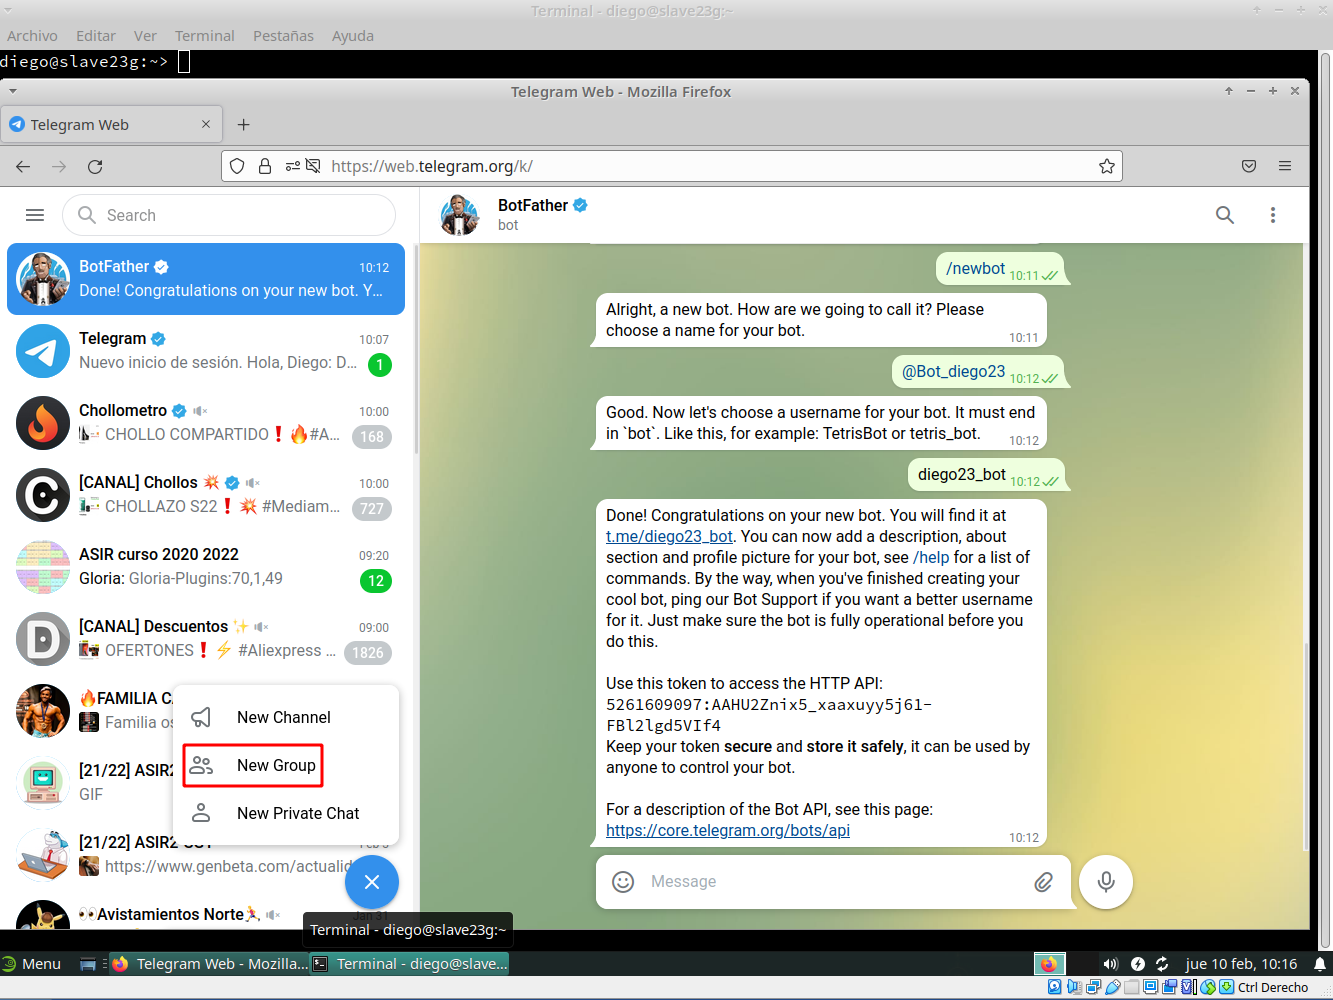
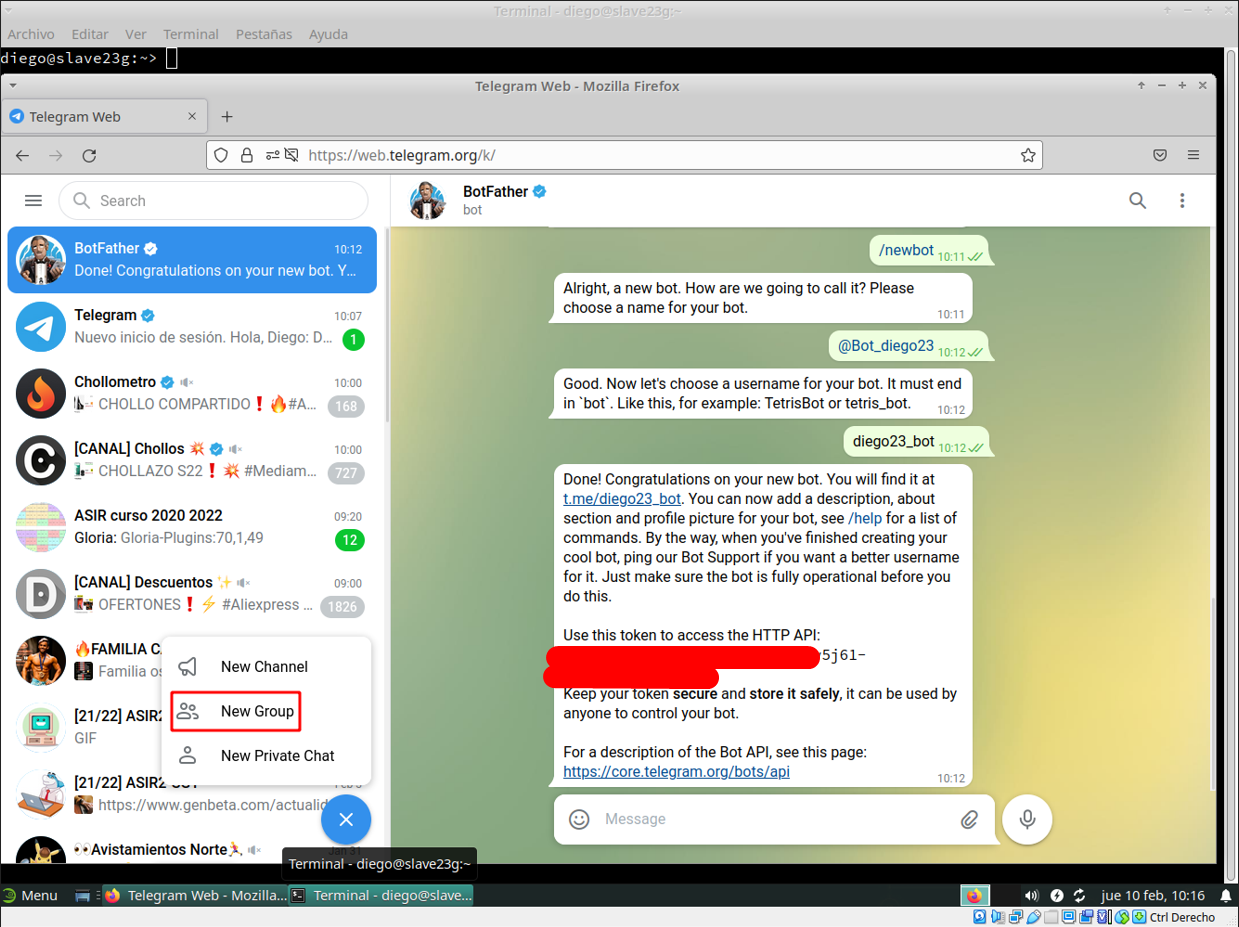
U

diff --git a/u6/telegram-bot/README.md b/u6/telegram-bot/README.md
@@ -1,0 +1,121 @@
+# **Servicio de comunicaciones con Telegram (bot-service)**
+
+***Nombre:*** Diego Peraza Cabo
+<br>
+***Curso:*** 2º ASIR
+
+## **Índice** <a id="0"></a>
+
++ [1. Crear un bot de Telegram con Ruby](#1)
+  + [1.1 Crar bot con BotFather](#1.1)
+  + [1.2 Crear un programa de Ruby](#1.2)
+  + [1.3 Entrega](#1.3)
++ [2. Sytemd](#2)
+  + [2.1 Crear un servicio](#2.1)
+  + [2.2 Iniciar y activar eñ servicio](#2.2)
+  + [2.3 Parar el proceso](#2.3)
+  + [2.4 Entrega](#2.4)
++ [3. Programar tareas](#3)
+  + [3.1 Controlador](#3.1)
+  + [3.2 Tareas programadas](#3.2)
+  + [3.3 Entrega](#3.3)
+
+### **1. Crear un bot de Telegram con Ruby** <a id="1"></a>
+
+### **1.1 Crar bot con BotFather** <a id="1.1"></a>
+
+- Iniciamos telegram y buscamos el usuario `@BotFather`, también empezaremos la conversación y con la creación de nuestro bot con la orden `/newbot`.
+
+  ![](img/1.png)
+
+  ![](img/2.png)
+
+  ![](img/3.png)
+
+  ![](img/4.png)
+
+- Ponemos como nombre del Bot `@Bot_diego23` y del nombre de usuario `diego23_bot`. Apuntamos los siguientes datos para usarlos más adelante:
+
+  - Bot URL
+  - TOKEN (HTTP API)
+
+    ![](img/5.png)
+
+- Ahora vamos a crear un grupo de Telegram y añadimos al bot creado anteriormente. Para crear el grupo tendremos que dirigirnos a la parte inferior izquierda y darle click a `Lapiz -> New Group`.
+
+  ![](img/6.png)
+
+  ![](img/7.png)
+
+- Buscamos nuestro bot y lo añadimos al grupo.
+
+  ![](img/10.png)
+
+- De nombre del grupo podremos ponerlo como queramos, pero en mi caso puse `bot-service`.
+
+  ![](img/11.png)
+
+- Una vez hecho todo lo anterior le damos a la flecha de abajo izquierda y ya tendriamos creado el grupo con neustro bot.
+
+  ![](img/12.png)
+
+### **1.2 Crear un programa de Ruby** <a id="1.2"></a>
+
+- Instalamos la gema de ruby que permite comunicarse con Telegram.
+
+  ![](img/13.png)
+
+- Vemos que nos ha dado un error en la instalación de la gema anterior, para solucionarlo nos instalamos la siguiente gema.
+
+  ![](img/14.png)
+
+- Una vez solucionado el problema, volvemos a instalarnos la gema `telegram-bot-ruby`.
+
+  ![](img/15.png)
+
+- Creamos el directorio `telegram` en nuestra carpeta `/home/diego`, además accedemos dentro de la carpeta crear y añadimos el fichero `hiden.token` para que tenga nuestro TOKEN del Bot dentro.
+
+  ![](img/16.png)
+
+  ![](img/17.png)
+
+- Una vez realizado el paso anterior, ejecutamos el programa de ejemplo de la actividad. Solo tendremos que cambiar el valor de `bot_username` a nuestro usuario.
+
+  ![](img/18.png)
+
+  ![](img/21.png)
+
+- Iniciamos `bot-demo.rb`.
+
+  ![](img/19.png)
+
+- Comprobamos su funcionamiento en el Telegram.
+
+  ![](img/20.png)
+
+### **1.3 Entrega** <a id="1.3"></a>
+
+  + [Script Bot23d](files/bot23.rb)
+  + [Funcionamiento del Bot23d](https://www.youtube.com/watch?v=FRh22RLe1ew)
+
+### **2. Sytemd** <a id="2"></a>
+
+- Vamos a crear un servicio para nuestro Bot, de modo que se inicie siempre al arrancar el equipo y que podemos gestionarlo como el resto de servicios (usando el comando ``systemctl``).
+
+### **2.1 Crear un servicio** <a id="2.1"></a>
+
+
+
+### **2.2 Iniciar y activar eñ servicio** <a id="2.2"></a>
+
+### **2.3 Parar el proceso** <a id="2.3"></a>
+
+### **2.4 Entrega** <a id="2.4"></a>
+
+### **3. Programar tareas** <a id="3"></a>
+
+### **3.1 Controlador** <a id="3.1"></a>
+
+### **3.2 Tareas programadas** <a id="3.2"></a>
+
+### **3.3 Entrega** <a id="3.3"></a>
